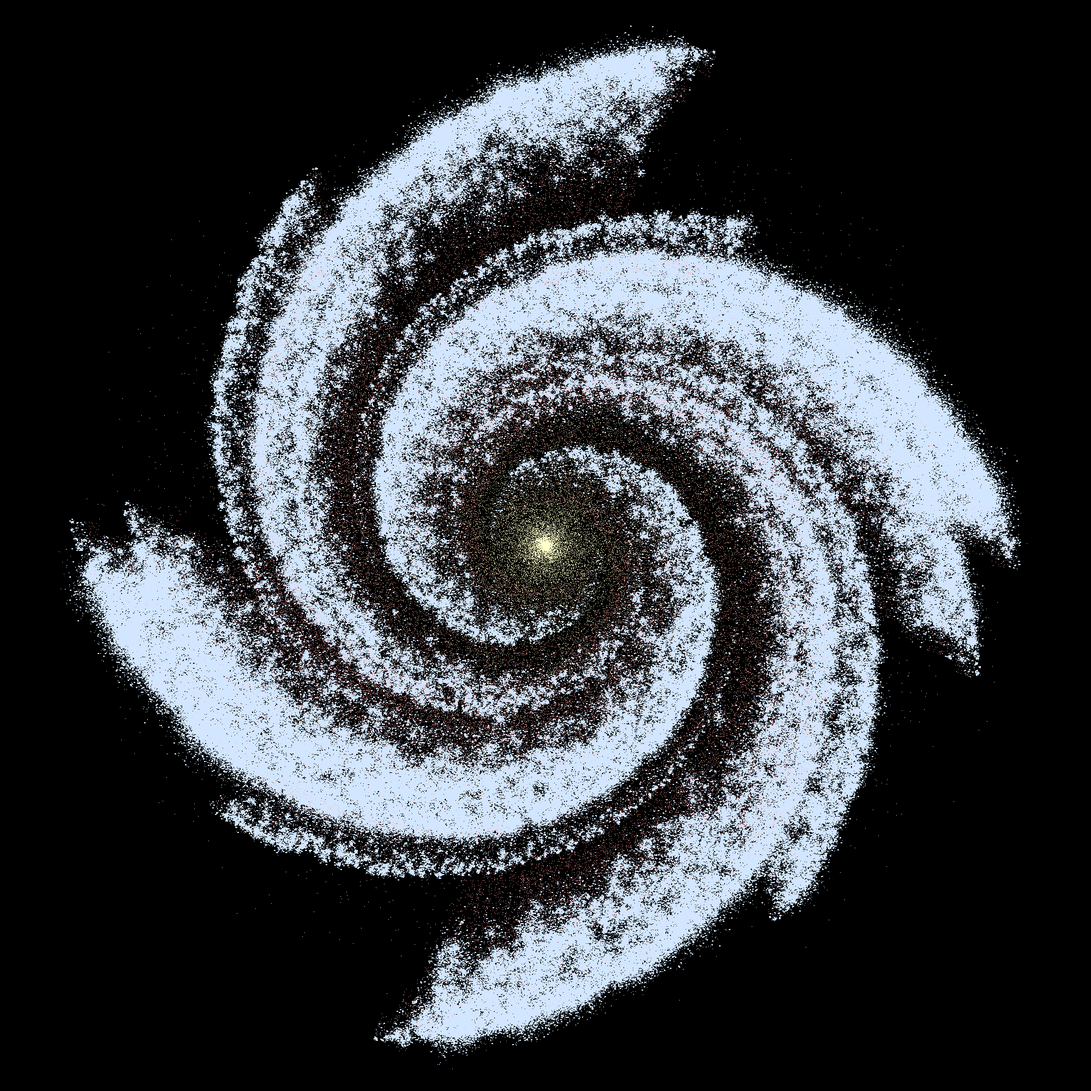
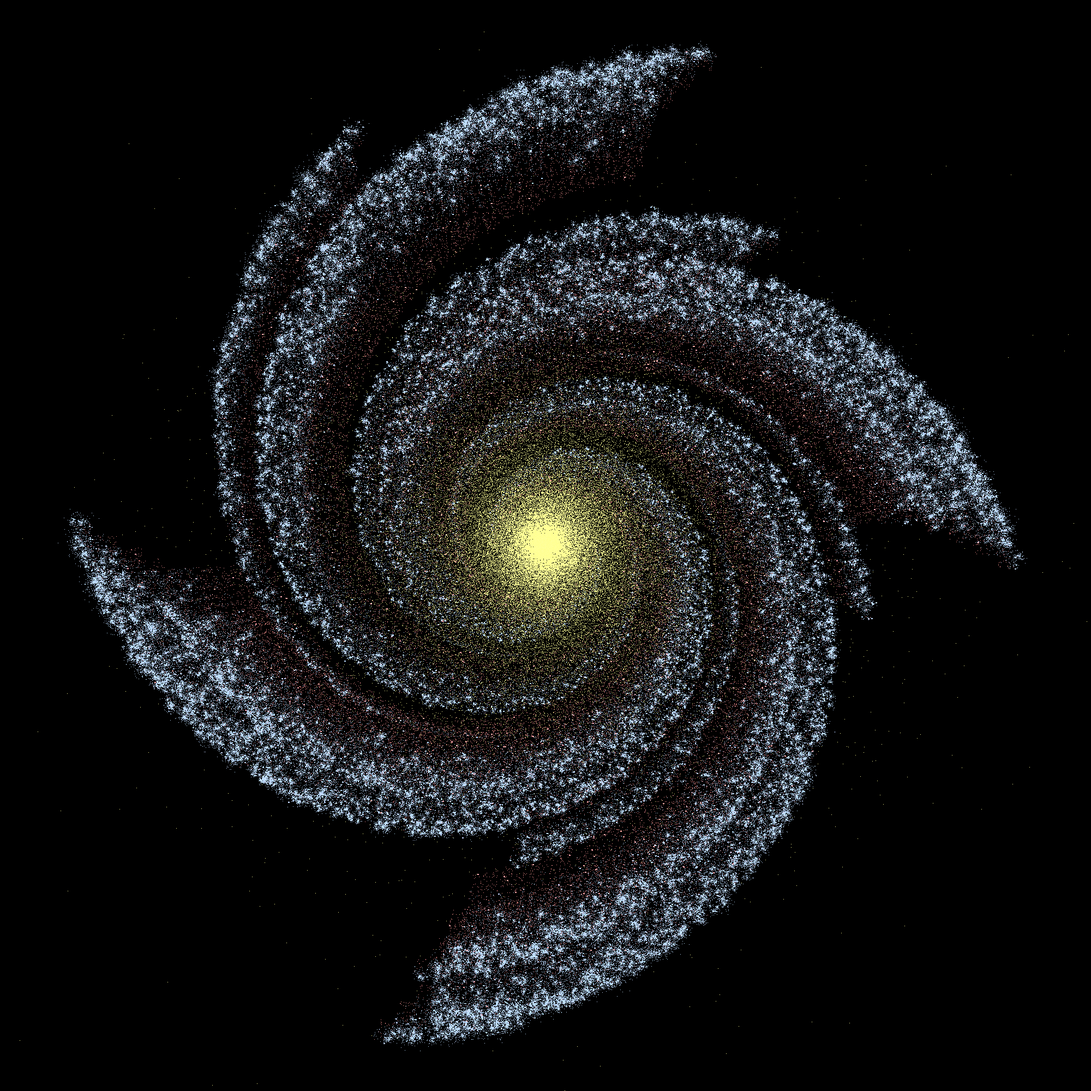
fixes for getting new map to display, move ships, preferences stuff...

Changed region(s): [[0.062, 0.031, 0.93, 0.961]]

diff --git a/static/newdominion.css b/static/newdominion.css
@@ -129,7 +129,7 @@ div.slideouttop {
   background-color: #001122;
   -moz-border-radius-bottomleft: 50px;
   -webkit-border-bottom-left-radius: 50px;
-  padding-top: 5px; padding-bottom: 2px;
+  padding-top: 2px; padding-bottom: 2px;
   padding-left:3px; padding-right: 3px;
 }
 

diff --git a/dominion/views.py b/dominion/views.py
@@ -53,13 +53,13 @@ def fleetmenu(request,fleet_id,action):
     if action == 'movetoloc':
       fleet.gotoloc(request.POST['x'],request.POST['y']);
       clientcommand = {}
-      clientcommand[str(fleet.sector.key)] = buildjsonsector(fleet.sector.key,request.user)
+      clientcommand[str(fleet.sector.key)] = buildjsonsector(fleet.sector,request.user)
       return HttpResponse(simplejson.dumps(clientcommand))
     elif action == 'movetoplanet': 
       planet = get_object_or_404(Planet, id=int(request.POST['planet']))
       fleet.gotoplanet(planet)
       clientcommand = {}
-      clientcommand[str(fleet.sector.key)] = buildjsonsector(fleet.sector.key,request.user)
+      clientcommand[str(fleet.sector.key)] = buildjsonsector(fleet.sector,request.user)
       return HttpResponse(simplejson.dumps(clientcommand))
     else:
       form = fleetmenus[action]['form'](request.POST, instance=fleet)
@@ -133,6 +133,9 @@ def preferences(request):
   player = user.get_profile()
   if request.POST:
     if request.POST.has_key('color'):
+      print "---"
+      print str(request.POST['color'])
+      print "---"
       try:
         color = int(request.POST['color'].split('#')[-1], 16)
         player.color = "#" + hex(color)[2:]
@@ -147,8 +150,7 @@ def preferences(request):
   return render_to_response('preferences.xhtml', context,
                              mimetype='application/xhtml+xml')
 
-def buildjsonsector(key,curuser):
-  s = get_object_or_404(Sector, key = int(key))
+def buildjsonsector(s,curuser):
   planets = s.planet_set.all()
   fleets = curuser.inviewof.filter(sector=s)
   jsonsector = {}
@@ -252,11 +254,16 @@ def fleetlist(request,type,page=1):
 @login_required
 def sectors(request):
   if request.POST:
-    sectors = {}
+    jsonsectors = {}
+    sectors = []
+    keys = []
     for key in request.POST:
       if key.isdigit():
-        sectors[key] = buildjsonsector(key, request.user)
-    output = simplejson.dumps( sectors )
+        keys.append(key)
+    sectors = Sector.objects.filter(key__in=keys)
+    for sector in sectors:
+      jsonsectors[sector.key] = buildjsonsector(sector, request.user)
+    output = simplejson.dumps( jsonsectors )
     return HttpResponse(output)
   return HttpResponse("Nope")
 

diff --git a/dominion/makegalaxy2.py b/dominion/makegalaxy2.py
@@ -9,6 +9,7 @@ import os
 
 testimage = Image.new('RGB',(2000,2000))
 draw = ImageDraw.Draw(testimage)
+povfile = open("stars.pov","w")
 squares={}
 numstars = 0
 sectors = {}
@@ -36,11 +37,15 @@ def setsize(color):
     size = size * (1+random.random()*.5-.25)
 
   if color == 'blue':
-    color = [190+random.randint(-10,10),220+random.randint(-10,10),255]
+    adjust = random.randint(-20,10)
+    blueadjust = abs(adjust/2)
+    color = [190+adjust,220+adjust,255-blueadjust]
   elif color == 'yellow':
-    color = [255,255,150+random.randint(-10,10)]
+    adjust = random.randint(-20,10)
+    color = [255,255,120+adjust]
   elif color == 'red':
-    color = [255,150+random.randint(-10,10),150+random.randint(-10,10)]
+    adjust = random.randint(-20,10)
+    color = [255,150+adjust,150+adjust]
     if size > .06:
       color[1] += random.randint(20,25)
       color[2] += random.randint(20,25)
@@ -168,6 +173,7 @@ def genarm(start, end, angle, squares):
 def genpoint(x,y,color,squares):
   global numstars
   global sectors
+  global povfile
   curx = x
   cury = y
 
@@ -177,7 +183,7 @@ def genpoint(x,y,color,squares):
 
   radius, color = setsize(color)
 
-  if 1: 
+  if 0: 
     if sectorkey not in sectors:
       newsector = Sector(key=sectorkey, x=int(curx), y=int(cury))
       newsector.save()
@@ -200,7 +206,11 @@ def genpoint(x,y,color,squares):
   numstars += 1
   if numstars % 100 == 0:
     print str(numstars)
-  r50 = radius*5
+
+  povstar = "sphere{<%f,%f,0>, %f texture {pigment { color rgb <%f, %f, %f>}}}"
+  povfile.write(povstar % (curx,cury,radius,color[0],color[1],color[2]))
+
+  r50 = radius*10
   draw.ellipse([curx-r50,cury-r50,curx+r50,cury+r50],tuple(color))
 
 while 1:

diff --git a/dominion/models.py b/dominion/models.py
@@ -572,7 +572,7 @@ class Fleet(models.Model):
     self.dy = destination.y
     self.setsourceport()
     self.destination = destination
-    self.sector = Sector.objects.get(buildsectorkey(self.x,self.y))
+    self.sector = Sector.objects.get(key=buildsectorkey(self.x,self.y))
     self.save()
   def gotoloc(self,dx,dy):
     self.dx = float(dx)
@@ -580,7 +580,7 @@ class Fleet(models.Model):
     self.direction = math.atan2(self.x-self.dx,self.y-self.dy)
     self.setsourceport()
     self.destination = None
-    self.sector = Sector.objects.get(buildsectorkey(self.x,self.y))
+    self.sector = Sector.objects.get(key=buildsectorkey(self.x,self.y))
     self.save()
   def arrive(self):
     self.speed=0
@@ -938,7 +938,7 @@ class Fleet(models.Model):
       self.x = self.x - math.sin(self.direction)*self.speed
       self.y = self.y - math.cos(self.direction)*self.speed
       sectorkey = buildsectorkey(self.x,self.y)
-      self.sector = Sector.objects.get(pk=sectorkey)
+      self.sector = Sector.objects.get(key=sectorkey)
       self.save()
   def doassault(self,destination,report):
     replinestart = "  Assaulting Planet " + self.destination.name + " ("+str(self.destination.id)+")"
